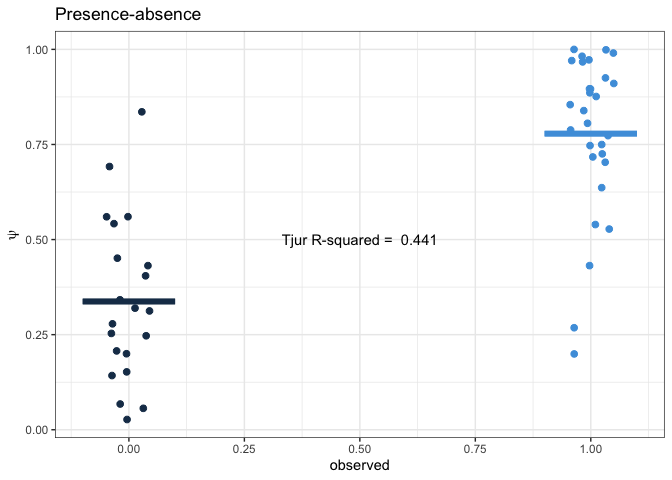
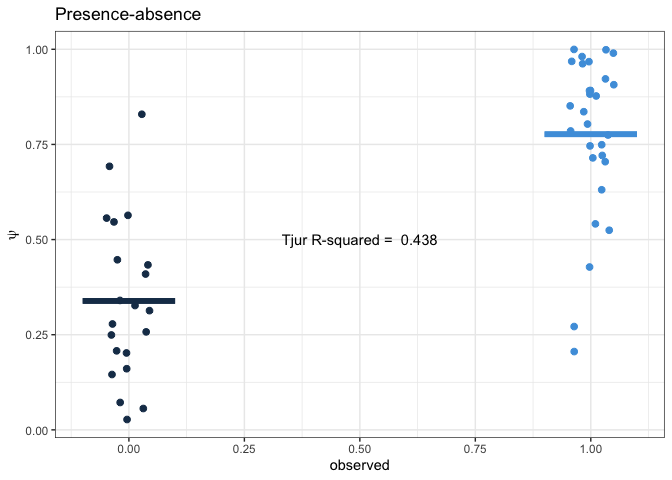
updated Tjur post

diff --git a/content/post/tjur-rsquared-in-jags/index.md b/content/post/tjur-rsquared-in-jags/index.md
@@ -13,7 +13,7 @@ projects: []
 # Date published
 date: '2022-07-07T00:00:00Z'
 # Date updated
-lastMod: '2022-07-07T00:00:00Z'
+lastMod: '2023-02-08T00:00:00Z'
 # Featured image
 # Place an image named `featured.jpg/png` in this page's folder and customize its options here.
 image:
@@ -39,198 +39,206 @@ If the model has perfect discriminating power, then $R^2Tjur$ will equal 1. If t
 
 Here I provide the code to assess the performance of a model with a binomial response that is included directly in the JAGS code. This was inspired by the work of Viana, Keil, & Jeliazkov and their [R2D2 functions](https://github.com/duarte-viana/iVarPart/blob/master/R2D2_functions.R). The code to simulate the data was adapted from code written by [Petr Keil](https://petrkeil.github.io/team/2020/09/01/petr-keil.html).
 
-
-    library(spatstat)
-    library(sp)
-    library(maptools)
-    library(rgeos)
-    library(raster)
-    library(gstat)
-    #-------
-    library(jagsUI) # interface to JAGS
-    library(tidyverse)
-
+```r
+library(spatstat)
+library(sp)
+library(maptools)
+library(rgeos)
+library(raster)
+library(gstat)
+#-------
+library(jagsUI) # interface to JAGS
+library(tidyverse)
+```
 
 ## Data simulation
 
-    # make randomness reproducible
-    set.seed(1234567)  
+```r
+# make randomness reproducible
+set.seed(1234567)  
 
-    #--------------------------------------------------------------------
-    # Environment
-    size=100
-    env <- im(matrix(0, size, size), xrange=c(0,1), yrange=c(0,1))
-    xy <- expand.grid(x = env$xcol, y = env$yrow)
-    g.dummy <- gstat(formula=z~1, locations=~x+y, dummy=T, beta=0,
-                     model=vgm(psill=0.1, range=50, model='Exp'), nmax=20)
-    env <- predict(g.dummy, newdata=xy, nsim=1)
+#--------------------------------------------------------------------
+# Environment
+size=100
+env <- im(matrix(0, size, size), xrange=c(0,1), yrange=c(0,1))
+xy <- expand.grid(x = env$xcol, y = env$yrow)
+g.dummy <- gstat(formula=z~1, locations=~x+y, dummy=T, beta=0,
+                 model=vgm(psill=0.1, range=50, model='Exp'), nmax=20)
+env <- predict(g.dummy, newdata=xy, nsim=1)
 
-    sp::gridded(env) <- ~x+y
-    env <- as.im(raster(env))
-    # scale the env. variable
-    env <- (env - min(env))
-    env <- env / max(env)
+sp::gridded(env) <- ~x+y
+env <- as.im(raster(env))
+# scale the env. variable
+env <- (env - min(env))
+env <- env / max(env)
 
-    #--------------------------------------------------------------------
-    # Parameters
-    alpha <- 0  # intercept of the environment-intensity relationship
-    beta <- 10 # slope of the environment-intensity relationship
-    true.params <- c(alpha = alpha, beta = beta)
+#--------------------------------------------------------------------
+# Parameters
+alpha <- 0  # intercept of the environment-intensity relationship
+beta <- 10 # slope of the environment-intensity relationship
+true.params <- c(alpha = alpha, beta = beta)
 
-    #--------------------------------------------------------------------
-    # True point pattern
-    # point process intensity lambda as a function of environment
-    lambda <- exp(alpha + beta*env)
+#--------------------------------------------------------------------
+# True point pattern
+# point process intensity lambda as a function of environment
+lambda <- exp(alpha + beta*env)
 
-    # sample points using inhomogeneous poisson point process
-    PTS <- rpoispp(lambda)
-    PTS.sp <- as(object=PTS, "SpatialPoints")
+# sample points using inhomogeneous poisson point process
+PTS <- rpoispp(lambda)
+PTS.sp <- as(object=PTS, "SpatialPoints")
 
-    #--------------------------------------------------------------------
-    # Generate presence-absence survey locations (polygons)
-    # number of survey locations
-    N.surv <- 50
+#--------------------------------------------------------------------
+# Generate presence-absence survey locations (polygons)
+# number of survey locations
+N.surv <- 50
 
-    # generate the polygons
-    X <- rThomas(kappa = 50,  scale = 0.2, mu = 5, win=owin(xrange=c(0,1), yrange=c(0,1)))
-    PLS <- dirichlet(X)
-    PLS.sub <- PLS[sample(1:length(PLS$tiles), size=N.surv)]
+# generate the polygons
+X <- rThomas(kappa = 50,  scale = 0.2, mu = 5, win=owin(xrange=c(0,1), yrange=c(0,1)))
+PLS <- dirichlet(X)
+PLS.sub <- PLS[sample(1:length(PLS$tiles), size=N.surv)]
 
-    # convert tesselation to sp class
-    PLS.sp <- as(PLS.sub, "SpatialPolygons")
+# convert tesselation to sp class
+PLS.sp <- as(PLS.sub, "SpatialPolygons")
 
-    # calculate area, coordinates, abundance, and incidence in each polygon
-    PLS.area <- gArea(PLS.sp, byid=T)
-    PLS.coords <- data.frame(coordinates(PLS.sp))
+# calculate area, coordinates, abundance, and incidence in each polygon
+PLS.area <- gArea(PLS.sp, byid=T)
+PLS.coords <- data.frame(coordinates(PLS.sp))
 
-    names(PLS.coords) <- c("X","Y")
-    PLS.abund <- unlist(lapply(X = over(PLS.sp, PTS.sp, returnList = TRUE), FUN = length))
-    PLS.presabs <- 1*(PLS.abund > 0)
+names(PLS.coords) <- c("X","Y")
+PLS.abund <- unlist(lapply(X = over(PLS.sp, PTS.sp, returnList = TRUE), FUN = length))
+PLS.presabs <- 1*(PLS.abund > 0)
 
-    # extract environmental variables
-    PLS.env <- raster::extract(x = raster(env), y = PLS.sp, fun = mean)[,1]
+# extract environmental variables
+PLS.env <- raster::extract(x = raster(env), y = PLS.sp, fun = mean)[,1]
 
-    jags.data <- list(n = N.surv,
-                      presabs = unname(PLS.presabs),
-                      area = unname(PLS.area),
-                      env = PLS.env)
+jags.data <- list(n = N.surv,
+                  presabs = unname(PLS.presabs),
+                  area = unname(PLS.area),
+                  env = PLS.env)
 
-    plot(PLS.sp, col = jags.data$presabs)
-    plot(PTS.sp, add=T, pch = 19, col = "red")
-
+plot(PLS.sp, col = jags.data$presabs)
+plot(PTS.sp, add=T, pch = 19, col = "red")
+```
 
 ![](R2Tjur-data.png)
 
 
 ## Model
 
-    cat('model
-      {
-        # PRIORS --------------------------------------------------
+```r
+cat('model
+  {
+    # PRIORS --------------------------------------------------
 
-        ## Effect of sampling effort in PA data
-        alpha ~ dnorm(0, 0.01)
-        beta ~ dnorm(0, 0.01)
+    ## Effect of sampling effort in PA data
+    alpha ~ dnorm(0, 0.01)
+    beta ~ dnorm(0, 0.01)
 
-        # LIKELIHOOD --------------------------------------------------
+    # LIKELIHOOD --------------------------------------------------
 
-        for (i in 1:n)
-        {
-            # the probability of presence
-            cloglog(psi[i]) <- alpha + beta*env[i] + log(area[i])
+    for (i in 1:n)
+    {
+        # the probability of presence
+        cloglog(psi[i]) <- alpha + beta*env[i] + log(area[i])
 
-            # presences and absences come from a Bernoulli distribution
-            presabs[i] ~ dbern(psi[i])    
+        # presences and absences come from a Bernoulli distribution
+        presabs[i] ~ dbern(psi[i])    
 
-        # POSTERIOR PREDICTIVE CHECK  --------------------------------
+    # POSTERIOR PREDICTIVE CHECK  --------------------------------
+    # Fit assessments: Tjur R-Squared (fit statistic for logistic regression)
+        pres[i] <- ifelse(presabs[i] > 0, psi[i], 0)
+        absc[i] <- ifelse(presabs[i] == 0, psi[i], 0)
+    }
+    # Discrepancy measures for entire data set
+    pres.n <- sum(presabs[] > 0)
+    absc.n <- sum(presabs[] == 0)
+    r2_tjur <- abs(sum(pres[])/pres.n - sum(absc[])/absc.n)
 
-            # Fit assessments: Tjur R-Squared (fit statistic for logistic regression)
-            presabs.new[i] ~ dbern(psi[i])    # replicate (new) data set
-
-            pres[i] <- ifelse(presabs[i] > 0, presabs.new[i], 0)
-            absc[i] <- ifelse(presabs[i] == 0, presabs.new[i], 0)
-        }
-
-        # Discrepancy measures for entire data set
-        pres.n <- sum(presabs[] > 0)
-        absc.n <- sum(presabs[] == 0)
-        r2_tjur <- abs(sum(pres[])/pres.n - sum(absc[])/absc.n)
-
-      }
-    ', file = 'r2tujr.txt')
+  }
+', file = 'models/r2tujr.txt')
+```
 
 
 ## Run
 
-    fitted.model <- jagsUI::jags(data=jags.data,
-                                 model.file='../models/r2tujr.txt',
-                                 parameters.to.save=c('alpha', 'beta',
-                                                      'psi', 'presabs.new',
-                                                      'r2_tjur'),
-                                 n.chains=3,
-                                 n.iter=10000,
-                                 n.thin=1,
-                                 n.burnin=1000,
-                                 parallel=TRUE,
-                                 DIC = FALSE)
+```r
+fitted.model <- jagsUI::jags(data=jags.data,
+                             model.file='models/r2tujr.txt',
+                             parameters.to.save=c('alpha', 'beta',
+                                                  'psi', 'presabs.new',
+                                                  'r2_tjur'),
+                             n.chains=3,
+                             n.iter=10000,
+                             n.thin=1,
+                             n.burnin=1000,
+                             parallel=TRUE,
+                             DIC = FALSE)
+```
 
-    ##
-    ## Processing function input.......
-    ##
-    ## Done.
-    ##  
-    ## Beginning parallel processing using 3 cores. Console output will be suppressed.
-    ##
-    ## Parallel processing completed.
-    ##
-    ## Calculating statistics.......
-    ##
-    ## Done.
+```
+##
+## Processing function input.......
+##
+## Done.
+##  
+## Beginning parallel processing using 3 cores. Console output will be suppressed.
+##
+## Parallel processing completed.
+##
+## Calculating statistics.......
+##
+## Done.
+```
 
 ## Checks
 
-    psi <- fitted.model$mean$psi
-    presabs <- jags.data$presabs
-    presabs.new <- fitted.model$mean$presabs.new
-    pred <- data.frame(presabs, psi, presabs.new)
+```r
+psi <- fitted.model$mean$psi
+presabs <- jags.data$presabs
+pred <- data.frame(presabs, psi)
 
-    r2_tjur <- round(fitted.model$mean$r2_tjur, 3)
+r2_tjur <- round(fitted.model$mean$r2_tjur, 3)
 
-    ggplot(pred, aes(x=presabs, y=presabs.new, col=presabs)) +
-        geom_jitter(height = 0, width = .05, size=2)  +
-        scale_x_continuous(breaks=seq(0,1,0.25)) + scale_colour_binned() +
-        labs(x='observed', y=latex2exp::TeX('$psi$'), title='Presence-absence') +
-        stat_summary(
-            fun = mean,
-            geom = "errorbar",
-            aes(ymax = ..y.., ymin = ..y..),
-            width = 0.2, size=2) +
-        theme_bw() + theme(legend.position = 'none')+
-        annotate(geom="text", x=0.5, y=0.5,
-                 label=paste('Tjur R-squared = ', r2_tjur))
+ggplot(pred, aes(x=presabs, y=psi, col=presabs)) +
+  geom_jitter(height = 0, width = .05, size=2)  +
+  scale_x_continuous(breaks=seq(0,1,0.25)) + scale_colour_binned() +
+  labs(x='observed', y=latex2exp::TeX('$psi$'), title='Presence-absence') +
+  stat_summary(
+    fun = mean,
+    geom = "errorbar",
+    aes(ymax = ..y.., ymin = ..y..),
+    width = 0.2, size=2) +
+  theme_bw() + theme(legend.position = 'none')+
+  annotate(geom="text", x=0.5, y=0.5,
+           label=paste('Tjur R-squared = ', r2_tjur))
+```
+
 
 ![](R2Tjur-check.png)
 
-The R-squared according to R2D2 function
+```r
+R2.Tjur <- function(Y.obs, Y.pred){
+  Y.obs <- as.matrix(Y.obs)
+  Y.pred <- as.matrix(Y.pred)
+  r2 <- numeric(ncol(Y.obs))
+  for(i in 1:ncol(Y.obs)){
+    r2[i] <- unname(diff(tapply(Y.pred[,i], Y.obs[,i], mean, na.rm = TRUE)))
+  }
+  return(r2)
+}
+R2.Tjur(jags.data$presabs, fitted.model$mean$psi)
+```
 
-    R2.Tjur <- function(Y.obs, Y.pred){
-      Y.obs <- as.matrix(Y.obs)
-      Y.pred <- as.matrix(Y.pred)
-      r2 <- numeric(ncol(Y.obs))
-      for(i in 1:ncol(Y.obs)){
-        r2[i] <- unname(diff(tapply(Y.pred[,i], Y.obs[,i], mean, na.rm = TRUE)))
-      }
-      return(r2)
-    }
-
-    R2.Tjur(jags.data$presabs, fitted.model$mean$presabs.new)
-
-    ## [1] 0.441263
+```
+## [1] 0.4380082
+```
 
 We can see if the posterior distributions of the parameters match the simulated ones
 
-    MCMCvis::MCMCplot(object = fitted.model,
-      params = c('alpha', 'beta'));
-      points(true.params, 2:1, pch=19, col="red")
+```r
+MCMCvis::MCMCplot(object = fitted.model,
+  params = c('alpha', 'beta'));
+  points(true.params, 2:1, pch=19, col="red")
+```
 
 ![](R2Tjur-params.png)
